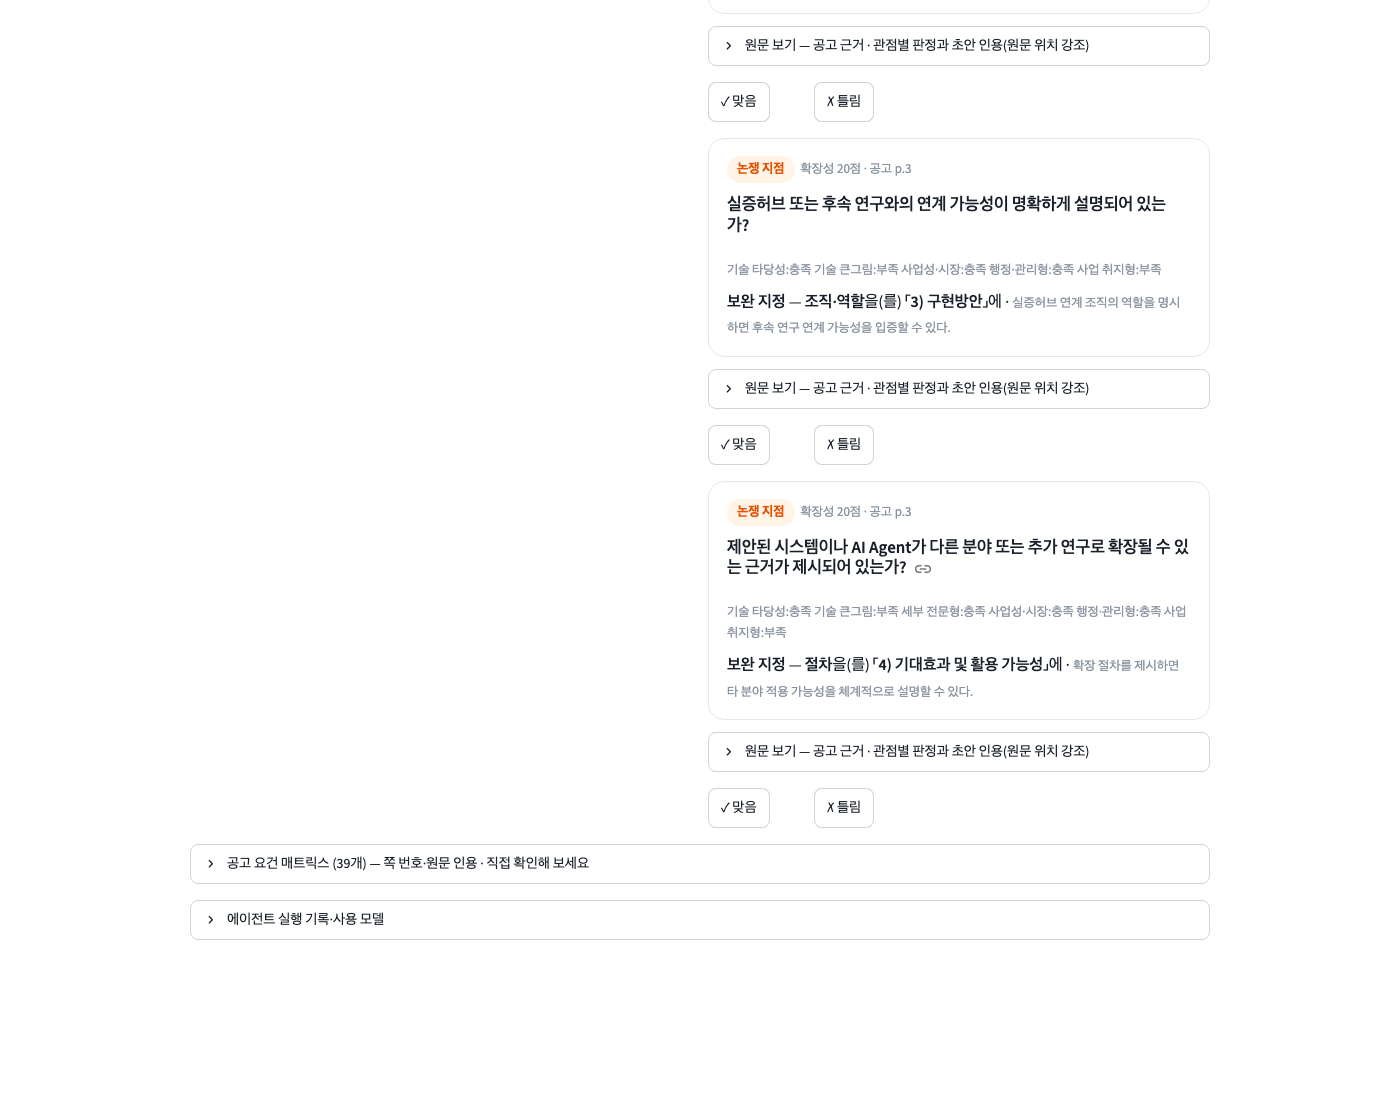
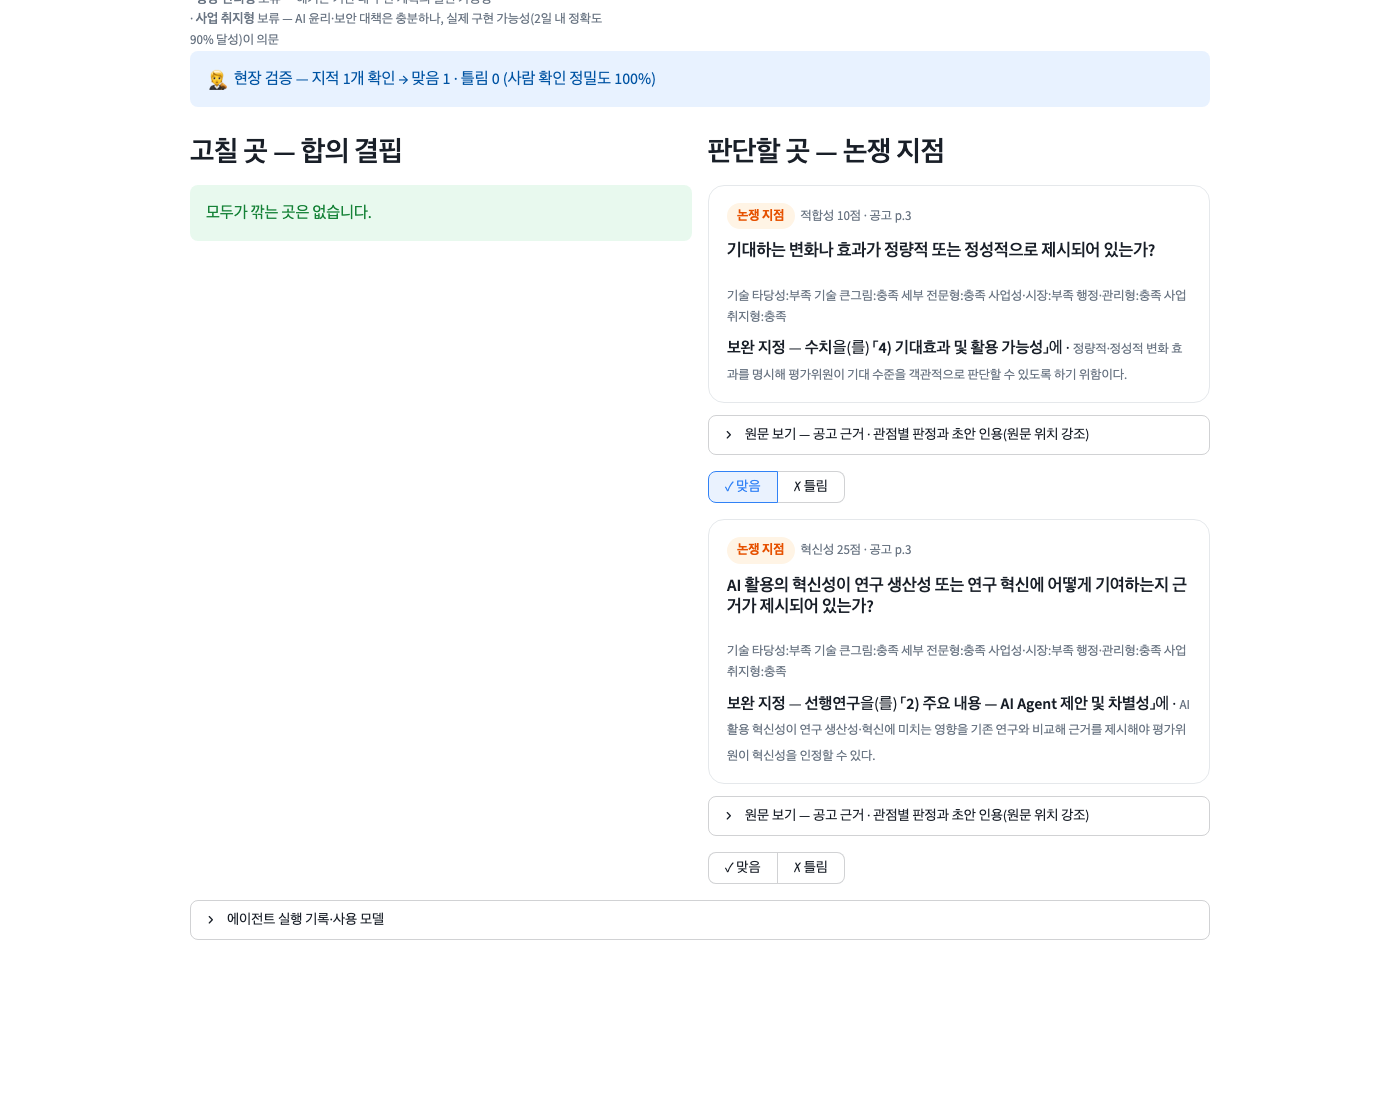
화면: 공고 파싱 직후 요건 목록·원문 강조·맞음/틀림(채점 전에도 확인) · 반응형(390·1280 넘침 0) · 하단 고정 CTA 52px · 보조 글자 대비 4.6:1 · 대조표 접기 · SPEC UI 수용기준 실측
Claude-Session: https://claude.ai/code/session_01WmeTdPFfcZ5JxZ8A3vFhTc

diff --git a/src/rfp_to_fit/infrastructure/app.py b/src/rfp_to_fit/infrastructure/app.py
@@ -38,8 +38,22 @@ html, body, [class*="css"] { font-family: 'Pretendard', -apple-system, 'Apple SD
 .ok { background:#E8F5E9; color:#2E7D32; } .unk { background:#ECEFF1; color:#546E7A; }
 .card { border: 1px solid #E5E8EB; border-radius: 16px; padding: 16px 18px; margin-bottom: 12px; background: #fff; }
 .card h4 { margin: 4px 0 8px 0; font-size: 17px; color:#191F28; }
-.muted { color:#8B95A1; font-size: 13px; }
-.quote { background:#F2F4F6; border-radius: 8px; padding: 6px 10px; font-size: 13px; color:#333D4B; margin: 4px 0; }
+.muted { color:#6B7684; font-size: 13px; }
+.quote { background:#F2F4F6; border-radius: 8px; padding: 6px 10px; font-size: 13px; color:#333D4B; margin: 4px 0; overflow-wrap: anywhere; }
+.muted a, .sub a { overflow-wrap: anywhere; }
+/* 주 행동 버튼: 전폭·52px, 스크롤해도 화면 아래에 붙는다(결과로 내려가면 따라오지 않음) */
+div[data-testid="stElementContainer"]:has(button[kind="primary"]) { position: sticky; bottom: 0; z-index: 20; background: #fff; padding: 10px 0 12px 0; box-shadow: 0 -10px 14px -6px rgba(255,255,255,0.95); }
+button[kind="primary"]:disabled { background: #E8F3FF !important; color: #6B7684 !important; border-color: #E8F3FF !important; opacity: 1 !important; }
+button[kind="primary"] { min-height: 52px; font-size: 16px !important; font-weight: 700; border-radius: 14px; }
+@media (max-width: 640px) {
+  .block-container { padding: 2.8rem 1rem 3rem 1rem; }
+  .big { font-size: 40px; letter-spacing: -1px; }
+  h2 { font-size: 26px !important; }
+  h3 { font-size: 20px !important; }
+  .card { padding: 14px; }
+  .card h4 { font-size: 16px; }
+  .muted { font-size: 13px; }
+}
 </style>
 """, unsafe_allow_html=True)
 
@@ -117,6 +131,73 @@ def accuracy_panel():
     for c, r in zip(cols, rows):
         c.metric(EXAMPLES.get(r["id"], r["id"])[:18], f'재현율 {r["recall"] * 100:.0f}%',
                  f'지표 일치 {r["criteria_agreement"] * 100:.0f}% · 정밀도 {r.get("precision", 0) * 100:.0f}%')
+
+
+def mark(quote: str, source: str):
+    c3 = context(quote, source)
+    if not c3:
+        return None
+    pre, hit, post = (html_escape(x) for x in c3)
+    return f'<div class="quote">…{pre}<mark style="background:#FFF3BF">{hit}</mark>{post}…</div>'
+
+
+def rfp_evidence(ev):
+    rfp_pages = st.session_state.get("rfp_pages") or []
+    page = ev.page or 1
+    src = rfp_pages[page - 1] if 0 < page <= len(rfp_pages) else "\n".join(rfp_pages)
+    return mark(ev.quote, src) or mark(ev.quote, "\n".join(rfp_pages))
+
+
+CHOICE = {"✓ 맞음": True, "✗ 틀림": False}
+
+
+def _record_check(key: str):
+    v = st.session_state.get(f"seg-{key}")
+    checks = st.session_state.setdefault("checks", {})
+    if v in CHOICE:
+        checks[key] = CHOICE[v]
+    else:
+        checks.pop(key, None)
+
+
+def check_buttons(key: str):
+    """맞음·틀림 한 줄 선택(모바일에서도 가로 한 줄). 콜백에서 기록해 같은 실행 안에서 집계가 바로 바뀐다."""
+    st.segmented_control("사람 확인", list(CHOICE), key=f"seg-{key}", label_visibility="collapsed",
+                         on_change=_record_check, args=(key,))
+
+
+def requirements_panel(reqs):
+    """공고 요건 목록 — 어기면 탈락인 것부터. 요건을 고르면 공고 원문에서 위치를 강조하고, 맞음·틀림을 기록한다."""
+    checks = st.session_state.setdefault("checks", {})
+    import pandas as pd
+    order = {"탈락": 0, "감점": 1, "불이익": 2}
+    reqs = sorted(reqs, key=lambda r: order.get(r.consequence, 3))
+    mark_of = {True: "맞음", False: "틀림"}
+    df = pd.DataFrame([{"사람 확인": mark_of.get(checks.get(f"r:{r.id}"), ""), "어기면": r.consequence or "-", "분류": r.category,
+                        "요건": r.text, "쪽": r.evidence.page, "원문 인용": r.evidence.quote} for r in reqs])
+    st.dataframe(df, use_container_width=True, hide_index=True, height=min(38 + 35 * len(df), 320))
+    pick = st.selectbox("원문 보기 — 요건 선택", [f"{r.id} · p.{r.evidence.page} · {r.text[:40]}" for r in reqs], index=None,
+                        placeholder="요건을 고르면 공고 원문에서 위치를 강조해 보여 줍니다")
+    if pick:
+        r = next(x for x in reqs if pick.startswith(x.id + " "))
+        st.markdown(rfp_evidence(r.evidence) or "원문 위치를 찾지 못했습니다(표 셀 순서가 섞인 쪽).", unsafe_allow_html=True)
+        check_buttons(f"r:{r.id}")
+
+
+def verification_tally():
+    """현장 검증 집계 — 사람이 누른 맞음·틀림만 센다(자기보고가 아니라 이 화면에서 확인한 것)."""
+    checks = st.session_state.get("checks", {})
+    fk = [v for k, v in checks.items() if k.startswith("f:")]
+    rk = [v for k, v in checks.items() if k.startswith("r:")]
+    if not (fk or rk):
+        return False
+    msg = []
+    if fk:
+        msg.append(f"지적 {len(fk)}개 확인 → 맞음 {sum(fk)} · 틀림 {len(fk) - sum(fk)} (사람 확인 정밀도 {sum(fk) / len(fk) * 100:.0f}%)")
+    if rk:
+        msg.append(f"요건 {len(rk)}개 확인 → 맞음 {sum(rk)} · 틀림 {len(rk) - sum(rk)} ({sum(rk) / len(rk) * 100:.0f}%)")
+    st.info("🧑⚖ 현장 검증 — " + " / ".join(msg))
+    return True
 
 
 # ---------------- 머리 ----------------
@@ -212,6 +293,9 @@ with tab_run:
         crits = [c for c in ex.criteria if stage is None or c.stage == stage]
         st.markdown(f'<div class="muted">공고에서 찾은 것: 요건 {len(ex.requirements)}개 · 평가지표 {len(crits)}개 ('
                     + " · ".join(f"{c.name} {c.points:g}" for c in crits) + ")</div>", unsafe_allow_html=True)
+        with st.expander(f"공고 요건 {len(ex.requirements)}개 보기 — 어기면 탈락인 것부터, 원문 위치 강조"):
+            requirements_panel(ex.requirements)
+            verification_tally()
 
     rubric_key = f"{rid}.{stage or 'all'}" if (src == "예시 공고" and rid) else None
     go = st.button("평가위원 6명에게 보내기", type="primary", disabled=not (ex and draft.strip()), use_container_width=True)
@@ -243,6 +327,8 @@ with tab_run:
         st.session_state["rfp_label"] = rfp_label
         st.session_state["draft_text"] = draft          # 세션 메모리만(디스크·로그 없음)
         st.session_state["checks"] = {}
+        for k in [k for k in st.session_state if str(k).startswith("seg-f:")]:
+            del st.session_state[k]          # 새 실행이면 지적 확인 표시도 비운다
 
     run = st.session_state.get("run")
     if run:
@@ -282,35 +368,8 @@ with tab_run:
             df = pd.DataFrame({crit[r.criterion.id].name + f" ({r.criterion.points:g})":
                                {pname[k]: round(v, 1) for k, v in r.per_reviewer.items()} for r in t.rows}).T
             df["평균"] = [round(r.expected_points, 1) for r in t.rows]
-            st.markdown("**심사기준 대조표** — 지표 × 평가위원(점수)")
-            st.dataframe(df, use_container_width=True)
-
-        rfp_pages = st.session_state.get("rfp_pages") or []
-        dtext = st.session_state.get("draft_text", "")
-        checks = st.session_state.setdefault("checks", {})
-
-        def mark(quote: str, source: str):
-            c3 = context(quote, source)
-            if not c3:
-                return None
-            pre, hit, post = (html_escape(x) for x in c3)
-            return f'<div class="quote">…{pre}<mark style="background:#FFF3BF">{hit}</mark>{post}…</div>'
-
-        def rfp_evidence(ev):
-            page = ev.page or 1
-            src = rfp_pages[page - 1] if 0 < page <= len(rfp_pages) else "\n".join(rfp_pages)
-            return mark(ev.quote, src) or mark(ev.quote, "\n".join(rfp_pages))
-
-        def check_buttons(key: str):
-            a, b, c = st.columns([1, 1, 3])
-            if a.button("✓ 맞음", key=f"ok-{key}"):
-                checks[key] = True
-                st.rerun()
-            if b.button("✗ 틀림", key=f"ng-{key}"):
-                checks[key] = False
-                st.rerun()
-            if key in checks:
-                c.markdown(f'<div class="muted">사람 확인: {"맞음" if checks[key] else "틀림"}</div>', unsafe_allow_html=True)
+            with st.expander("심사기준 대조표 — 지표 × 관점별 근거 충족도"):
+                st.dataframe(df, use_container_width=True)
 
         def finding_card(f):
             it = items[f.item_id]
@@ -332,20 +391,11 @@ with tab_run:
                 for v in f.verdicts:
                     st.markdown(f"- **{pname[v.reviewer_id]}** ({v.label.value}) {v.reason}")
                     if v.quote:
-                        st.markdown(mark(v.quote, dtext) or f'<div class="quote">“{html_escape(v.quote)}” <b>— 원문에 없음(무효)</b></div>',
+                        st.markdown(mark(v.quote, st.session_state.get("draft_text", "")) or f'<div class="quote">“{html_escape(v.quote)}” <b>— 원문에 없음(무효)</b></div>',
                                     unsafe_allow_html=True)
             check_buttons(f"f:{f.item_id}")
 
-        fk = [v for k, v in checks.items() if k.startswith("f:")]
-        rk = [v for k, v in checks.items() if k.startswith("r:")]
-        if fk or rk:
-            msg = []
-            if fk:
-                msg.append(f"지적 {len(fk)}개 확인 → 맞음 {sum(fk)} · 틀림 {len(fk) - sum(fk)} (사람 확인 정밀도 {sum(fk) / len(fk) * 100:.0f}%)")
-            if rk:
-                msg.append(f"요건 {len(rk)}개 확인 → 맞음 {sum(rk)} · 틀림 {len(rk) - sum(rk)} ({sum(rk) / len(rk) * 100:.0f}%)")
-            st.info("🧑⚖ 현장 검증 — " + " / ".join(msg))
-        else:
+        if not verification_tally():
             st.markdown('<div class="muted">🧑⚖ 현장 검증: 카드의 「원문 보기」로 근거를 확인하고 ✓/✗를 누르면, 사람이 확인한 정밀도가 여기에 쌓입니다.</div>',
                         unsafe_allow_html=True)
 
@@ -371,28 +421,6 @@ with tab_run:
             with st.expander(f"선행연구 {len(run.prior_art)}편 — MCP 도구 서버 경유 OpenAlex 검색(혁신성 판정 참고)"):
                 for w in run.prior_art:
                     st.markdown(f"- [{w['title']}]({w.get('doi') or '#'}) · {w.get('year')} · 피인용 {w.get('cited_by')} · 검색어 `{w.get('query')}`")
-        with st.expander(f"공고 요건 매트릭스 ({len(run.requirements)}개) — 쪽 번호·원문 인용 · 직접 확인해 보세요", expanded=False):
-            import pandas as pd
-            order = {"탈락": 0, "감점": 1, "불이익": 2}
-            reqs = sorted(run.requirements, key=lambda r: order.get(r.consequence, 3))
-            df = pd.DataFrame([{"맞음": checks.get(f"r:{r.id}") is True, "틀림": checks.get(f"r:{r.id}") is False,
-                                "어기면": r.consequence or "-", "분류": r.category, "요건": r.text, "쪽": r.evidence.page,
-                                "원문 인용": r.evidence.quote} for r in reqs])
-            ed = st.data_editor(df, use_container_width=True, hide_index=True, disabled=["어기면", "분류", "요건", "쪽", "원문 인용"],
-                                key="req_editor")
-            changed = False
-            for r, (_, row) in zip(reqs, ed.iterrows()):
-                val = True if (row["맞음"] and not row["틀림"]) else False if (row["틀림"] and not row["맞음"]) else None
-                if val is not None and checks.get(f"r:{r.id}") is not val:
-                    checks[f"r:{r.id}"] = val
-                    changed = True
-            if changed:
-                st.rerun()
-            pick = st.selectbox("원문 보기 — 요건 선택", [f"{r.id} · p.{r.evidence.page} · {r.text[:40]}" for r in reqs], index=None,
-                                placeholder="요건을 고르면 공고 원문에서 위치를 강조해 보여 줍니다")
-            if pick:
-                r = next(x for x in reqs if pick.startswith(x.id + " "))
-                st.markdown(rfp_evidence(r.evidence) or "원문 위치를 찾지 못했습니다(표 셀 순서가 섞인 쪽).", unsafe_allow_html=True)
         with st.expander("에이전트 실행 기록·사용 모델"):
             used = next((t for t in run.trace if t.get("step") == "실제 판정 모델"), {})
             st.json({"trace": run.trace, "평가위원": [{"id": p.id, "렌즈": p.name, "실제 모델": used.get(p.id, p.model)}

diff --git a/scripts/responsive.py b/scripts/responsive.py
@@ -1,0 +1,76 @@
+"""반응형 실측: 예시 공고+예시 초안으로 한 번 실행한 뒤, 같은 화면을 1280·390 폭으로 바꿔 가며
+가로 넘침(문서 폭 > 창 폭)과 창 밖으로 삐져나간 요소를 세고 캡처한다. SPEC 「UI 수용기준」의 측정 도구.
+uv run python scripts/responsive.py [URL] [출력 폴더]"""
+import json
+import sys
+import time
+
+from playwright.sync_api import sync_playwright
+
+url = sys.argv[1] if len(sys.argv) > 1 else "http://localhost:8501"
+out = sys.argv[2] if len(sys.argv) > 2 else "deliver/shots/responsive"
+WIDTHS = [(1280, 900), (390, 844)]
+
+PROBE = """() => {
+  const vw = document.documentElement.clientWidth;
+  const main = document.querySelector('section.main, [data-testid="stMain"]') || document.body;
+  const over = [];
+  for (const el of main.querySelectorAll('*')) {
+    const r = el.getBoundingClientRect();
+    if (r.width === 0 || r.height === 0) continue;
+    if (el.closest('details:not([open])') && !el.closest('summary')) continue;  // 접힌 섹션 안은 화면에 없다
+    const cs = getComputedStyle(el);
+    if (cs.visibility === 'hidden' || cs.display === 'none') continue;
+    // 가로 스크롤 컨테이너(표) 안의 요소는 넘쳐도 정상 — 스크롤 컨테이너 자체만 본다
+    let p = el.parentElement, inScroller = false;
+    while (p && p !== main) { const o = getComputedStyle(p).overflowX; if (o === 'auto' || o === 'scroll' || o === 'hidden') { inScroller = true; break; } p = p.parentElement; }
+    if (!inScroller && (r.right > vw + 1 || r.left < -1)) over.push((el.className || el.tagName).toString().slice(0, 60) + ' ' + Math.round(r.left) + '~' + Math.round(r.right));
+  }
+  const fs = [...main.querySelectorAll('p, div.muted, div.sub, label, button')].map(e => parseFloat(getComputedStyle(e).fontSize)).filter(x => x > 0);
+  return { vw, scrollW: document.documentElement.scrollWidth, overflowX: document.documentElement.scrollWidth > vw + 1,
+           outside: over.slice(0, 15), n_outside: over.length, min_font: Math.min(...fs) };
+}"""
+
+
+def shoot(pg, tag):
+    res = {}
+    for w, h in WIDTHS:
+        pg.set_viewport_size({"width": w, "height": h})
+        time.sleep(1.5)
+        res[w] = pg.evaluate(PROBE)
+        # Streamlit은 문서가 아니라 안쪽 컨테이너가 스크롤한다 → 창을 내용 높이만큼 늘려 전체를 찍는다
+        full = pg.evaluate("() => Math.max(...[...document.querySelectorAll('[data-testid=stMain], section.main, .main')].map(e => e.scrollHeight), 0)")
+        pg.set_viewport_size({"width": w, "height": max(h, min(full, 12000))})
+        time.sleep(1.5)
+        pg.screenshot(path=f"{out}/{tag}-{w}.png")
+        pg.set_viewport_size({"width": w, "height": h})
+    return res
+
+
+with sync_playwright() as p:
+    b = p.chromium.launch()
+    pg = b.new_page(viewport={"width": 1280, "height": 900})
+    pg.goto(url)
+    pg.wait_for_selector("text=평가위원 6명에게 보내기", timeout=60000)
+    time.sleep(2)
+    report = {"input": shoot(pg, "01-input")}
+    pg.set_viewport_size({"width": 1280, "height": 900})
+    pg.get_by_text("예시 공고", exact=True).click()
+    pg.get_by_text("예시: 우리 팀 예선 기획서", exact=True).click()
+    pg.wait_for_selector("text=공고에서 찾은 것", timeout=120000)
+    time.sleep(2)
+    report["parsed"] = shoot(pg, "02-parsed")
+    pg.set_viewport_size({"width": 1280, "height": 900})
+    t = time.time()
+    pg.get_by_role("button", name="평가위원 6명에게 보내기").click()
+    pg.wait_for_selector("text=심사기준 대조표", timeout=300000)
+    time.sleep(3)
+    report["run_seconds"] = round(time.time() - t)
+    report["result"] = shoot(pg, "03-result")
+    for name, fn in [("② 우리 기획서 먼저 채점", "04-before-after"), ("③ 신뢰 장치·정확도", "05-trust")]:
+        pg.set_viewport_size({"width": 1280, "height": 900})
+        pg.get_by_role("tab", name=name).click()
+        time.sleep(2)
+        report[fn] = shoot(pg, fn)
+    b.close()
+print(json.dumps(report, ensure_ascii=False, indent=1))

diff --git a/scripts/e2e_mobile.py b/scripts/e2e_mobile.py
@@ -1,0 +1,37 @@
+"""실측(390×844 모바일): 예시 공고 → 요건 목록 펼치기 → 요건 하나 원문 강조 → ✓ 맞음 → 집계, 가로 넘침 0인지.
+uv run --with playwright python scripts/e2e_mobile.py [URL]"""
+import sys
+import time
+
+from playwright.sync_api import sync_playwright
+
+url = sys.argv[1] if len(sys.argv) > 1 else "http://localhost:8501"
+with sync_playwright() as p:
+    b = p.chromium.launch()
+    pg = b.new_page(viewport={"width": 390, "height": 844}, device_scale_factor=2, is_mobile=True, has_touch=True)
+    pg.goto(url)
+    pg.wait_for_selector("text=평가위원 6명에게 보내기", timeout=60000)
+    pg.get_by_text("예시 공고", exact=True).click()
+    pg.wait_for_selector("text=공고에서 찾은 것", timeout=120000)
+    time.sleep(1.5)
+    pg.get_by_text("보기 — 어기면 탈락인 것부터").click()
+    time.sleep(1.5)
+    cb = pg.get_by_role("combobox").last
+    cb.scroll_into_view_if_needed()
+    cb.click()
+    time.sleep(1.5)
+    pg.keyboard.press("ArrowDown")
+    pg.keyboard.press("Enter")
+    time.sleep(1.5)
+    assert pg.locator("mark").count() >= 1, "원문 강조 없음"
+    pg.get_by_role("radio", name="✓ 맞음").first.click()
+    pg.wait_for_selector("text=요건 1개 확인", timeout=15000)
+    time.sleep(1)
+    m = pg.evaluate("() => ({vw: document.documentElement.clientWidth, sw: document.documentElement.scrollWidth,"
+                    " df: [...document.querySelectorAll('[data-testid=stDataFrame]')].map(e => Math.round(e.getBoundingClientRect().right))})")
+    full = pg.evaluate("() => Math.max(...[...document.querySelectorAll('[data-testid=stMain]')].map(e => e.scrollHeight), 844)")
+    pg.set_viewport_size({"width": 390, "height": min(full, 8000)})
+    time.sleep(1)
+    pg.screenshot(path="deliver/shots/responsive/06-mobile-verify-390.png")
+    print("OK", m, "tally:", pg.locator("text=현장 검증 —").first.inner_text())
+    b.close()

diff --git a/scripts/e2e_verify.py b/scripts/e2e_verify.py
@@ -11,8 +11,12 @@ with sync_playwright() as p:
     t0 = time.time(); pg.get_by_role("button", name="평가위원 6명에게 보내기").click()
     pg.wait_for_selector("text=/완료 · [0-9]+초/", timeout=500000); print("run", round(time.time() - t0), "s")
     time.sleep(2)
-    pg.get_by_text("원문 보기 — 공고 근거").first.click(); time.sleep(1)
-    pg.get_by_role("button", name="✓ 맞음").first.click(); time.sleep(2.5)
-    print(pg.locator("text=/현장 검증/").first.inner_text()[:200])
+    cards = pg.locator("summary", has_text="원문 보기")
+    print("지적 카드", cards.count())
+    cards.first.click(); time.sleep(1)
+    pg.get_by_role("radio", name="✓ 맞음").first.click(); time.sleep(2.5)
+    pg.wait_for_function("() => document.body.innerText.includes('지적 1개 확인')", timeout=15000)
+    txt = pg.evaluate("() => document.body.innerText")
+    print(txt[txt.index("현장 검증 —"):][:80])
     pg.screenshot(path="deliver/shots/07-verify.png", full_page=True)
     b.close()

diff --git a/scripts/record_demo.py b/scripts/record_demo.py
@@ -40,7 +40,7 @@ with sync_playwright() as p:
     pg.get_by_text("원문 보기 — 공고 근거").first.click(); time.sleep(0.8); mark("cards")
     pg.get_by_text("원문 보기 — 공고 근거").first.scroll_into_view_if_needed()
     time.sleep(max(1.0, narr["cards"] * 0.5))
-    pg.get_by_role("button", name="✓ 맞음").first.click(); time.sleep(2.0)
+    pg.get_by_role("radio", name="✓ 맞음").first.click(); time.sleep(2.0)
     pg.locator("text=/사람 확인 정밀도/").first.scroll_into_view_if_needed(); mark("memo")
     time.sleep(max(1.0, narr["cards"] * 0.5))
     pg.evaluate("window.scrollTo({top: 0, behavior: 'smooth'})"); time.sleep(1.0)

diff --git a/scripts/capture_deck.py b/scripts/capture_deck.py
@@ -18,7 +18,7 @@ with sync_playwright() as p:
     pg.wait_for_selector("text=/완료 · [0-9]+초/", timeout=500000); print("run", round(time.time() - t0), "s")
     time.sleep(2)
     pg.get_by_text("원문 보기 — 공고 근거").first.click(); time.sleep(1)
-    pg.get_by_role("button", name="✓ 맞음").first.click(); time.sleep(3)
+    pg.get_by_role("radio", name="✓ 맞음").first.click(); time.sleep(3)
     pg.get_by_text("원문 보기 — 공고 근거").first.click(); time.sleep(1.5)
     tally = pg.locator("text=/사람 확인 정밀도 [0-9]+%/").first
     tally.scroll_into_view_if_needed(); time.sleep(0.8)
